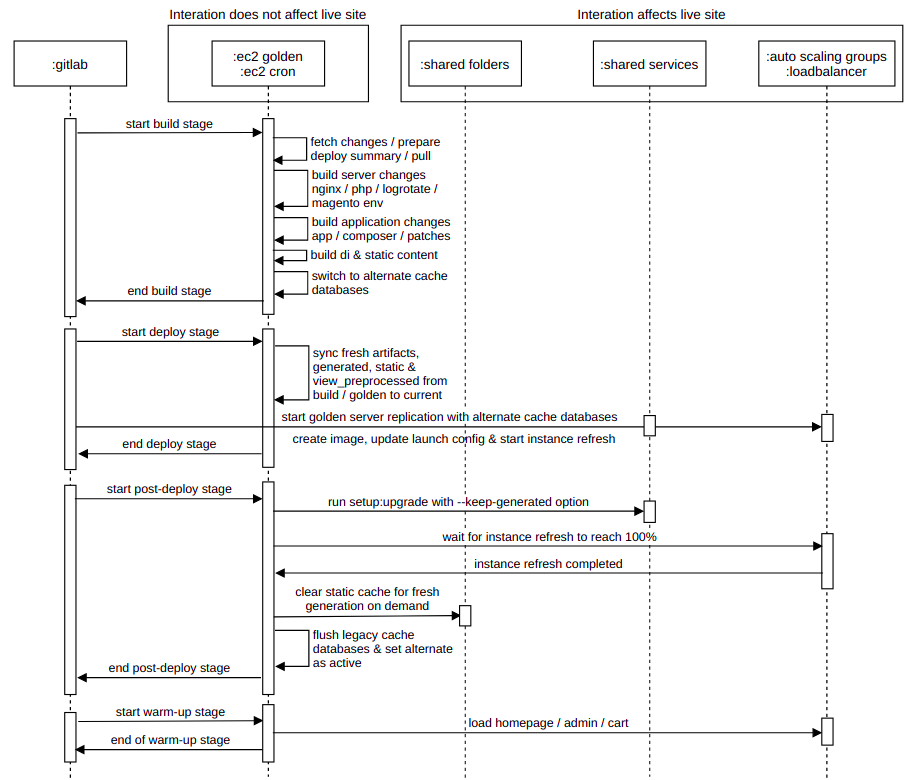
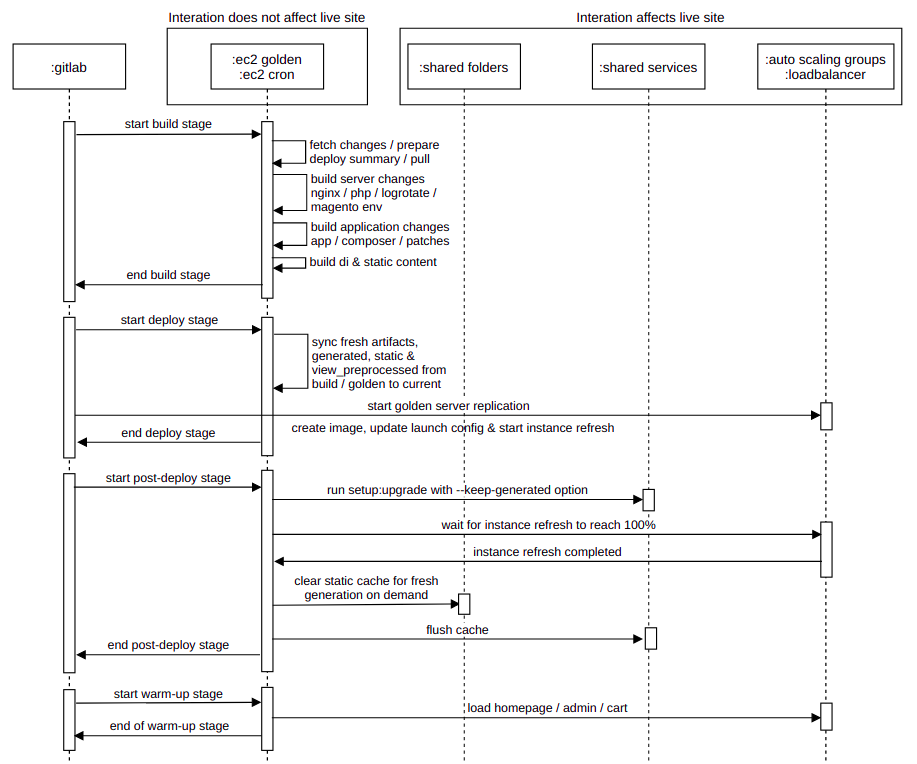
updated sequence diagram and readme for changes

diff --git a/README.md b/README.md
@@ -5,7 +5,6 @@
 - Simple deploy summary for server/application section in tabular format during each deployment
 - Support to sync nginx, php, logrotate and magento env changes directly from repository to golden server
 - Seperate root to build application changes and state checking flow to skip application build when no changes
-- Alternating `default` and `full page` cache databases to reduce conflics between old and new nodes
 - Aws cli integration to create image, update launch configuration and start/wait for instance refresh
 
 # Important configuration information
@@ -29,7 +28,7 @@
 # 2. Pre-Requistics
 - Proper credentals/vpn to ssh into staging/production ec2 servers
 - Magento 2 existing project installed and running on staging/production ec2 server
-- These folders mounted on efs `var` and `pub/media` in ec2 server mage root
+- These folders mounted on efs `app/etc`, `var` and `pub/media` in ec2 server mage root
 - All services endpoint accessible from staging/production ec2 server
 - Proper credentals to ssh into gitlab hosted server
 - Gitlab installed/running, magento repository configured in gitlab and two gitlab shell runner configured
@@ -131,10 +130,6 @@ cp -a .env.dis .env.stag
 
 # 5. Configure golden server
 - Redo these steps for each golden server `production` and `staging`
-- Install some dependencies
-```
-sudo apt-get install redis-tools
-```
 - Follow steps below to configure [mage/build root and ssh](#configure-magebuild-root-and-ssh) and [this repository](#configure-this-repository-for-golden)
 
 ## Configure mage/build root and ssh
@@ -143,7 +138,7 @@ sudo apt-get install redis-tools
 ```
 Host $gitlab_domain
    HostName $host_ip
-   IdentityFile ~/.ssh/gitlab
+   IdentityFile ~/.ssh/gitlab.pem
 ```
 - Cd into your current `mage root` and change the git remote to ssh one instead of https, now all git commands should work through ssh
 - Create a new folder in `/var/www/html` as `build` and copy over `.git` and `.gitignore` from mage root
@@ -188,11 +183,8 @@ cd var && ln -snf ../symlinks/view_preprocessed .
 
 ## Configure this repository for golden
 - Clone this repositrory in home folder of user
-- Add some variables in `/etc/environment` for pipeline commands alias, replace `$redis_host` with redis host and `$domain_name` with your project domain name
+- Add some variables in `/etc/environment` for pipeline commands alias, replace `$domain_name` with your project domain name
 ```
-# Aws Endpoints
-aws_redis="$redis_host"
-
 # Root path
 mage_root="/var/www/html/$domain_name"
 build_root="/var/www/html/build"
